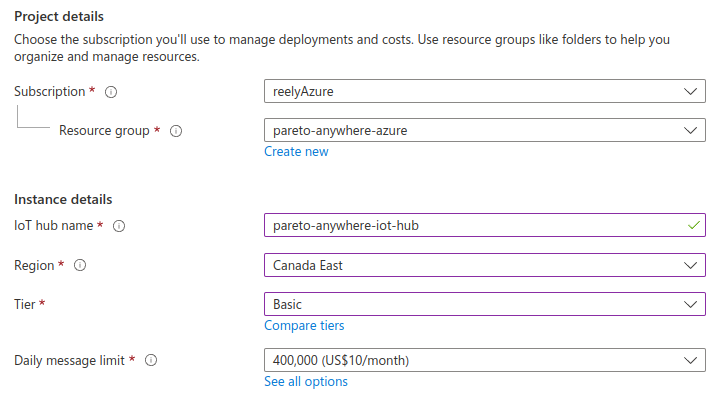
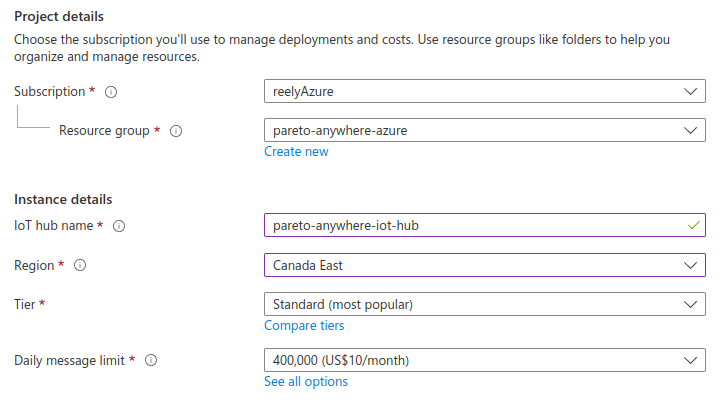
Added notes about IoT Hub and Web PubSub tiers/limits

Changed region(s): [[0.3667, 0.72, 0.5806, 0.78]]

diff --git a/diy/pareto-anywhere-azure/index.html b/diy/pareto-anywhere-azure/index.html
@@ -416,9 +416,15 @@
             </div>
             <div class="tab-pane fade" id="ih3content" role="tabpanel"
                  aria-labelledby="ih3tab">
-              <p> Enter a meaningful name for your IoT Hub and select the geographical region best suited for your deployment.  Choose a tier and message limit adapted to the scale of your deployment.  Then click <i class="fas fa-mouse-pointer"></i> <b>Review + create</b> at the bottom of the page. </p>
+              <p> Enter a meaningful name for your IoT Hub and select the geographical region best suited for your deployment.  Choose a tier<sup>*</sup> and message limit<sup>**</sup> adapted to the scale of your deployment.  Then click <i class="fas fa-mouse-pointer"></i> <b>Review + create</b> at the bottom of the page. </p>
               <img src="images/iothub-details.png"
                    class="img-fluid mx-auto d-block" alt="IoT Hub details">
+              <div class="alert alert-primary mt-3" role="alert">
+                <sup>*</sup> <b>Standard</b> tier is strongly recommended, as many gateways require the functionality of this tier<em>&mdash;without providing explicit notification of Basic tier incompatibility!</em>
+              </div>
+              <div class="alert alert-primary mt-3" role="alert">
+                <sup>**</sup> IoT Hub will stop relaying messages<em>&mdash;without explicit notification&mdash;</em>once its daily limit is reached.  Choose a generous message limit, then validate and adjust as often as required.
+              </div>
             </div>
             <div class="tab-pane fade" id="ih4content" role="tabpanel"
                  aria-labelledby="ih4tab">
@@ -841,9 +847,12 @@
             </div>
             <div class="tab-pane fade" id="ps3content" role="tabpanel"
                  aria-labelledby="ps3tab">
-              <p> Enter a meaningful name for your Web PubSub Service and select the geographical region best suited for your deployment.  Choose the <b>Free</b> tier as this will largely suffice in almost all situations.  Then click <i class="fas fa-mouse-pointer"></i> <b>Review + create</b> at the bottom of the page. </p>
+              <p> Enter a meaningful name for your Web PubSub Service and select the geographical region best suited for your deployment.  Choose the <b>Free</b> tier<sup>*</sup> if the web app is likely to receive moderate use.  Then click <i class="fas fa-mouse-pointer"></i> <b>Review + create</b> at the bottom of the page. </p>
               <img src="images/webpubsub-details.png"
                    class="img-fluid mx-auto d-block" alt="Web PubSub details">
+              <div class="alert alert-primary mt-3" role="alert">
+                <sup>*</sup> The <b>Free</b> tier of Web PubSub will stop relaying events<em>&mdash;without explicit notification&mdash;</em>once its daily limit is reached.  The <b>Standard</b> tier is not constrained by a fixed limit.
+              </div>
             </div>
             <div class="tab-pane fade" id="ps4content" role="tabpanel"
                  aria-labelledby="ps4tab">
